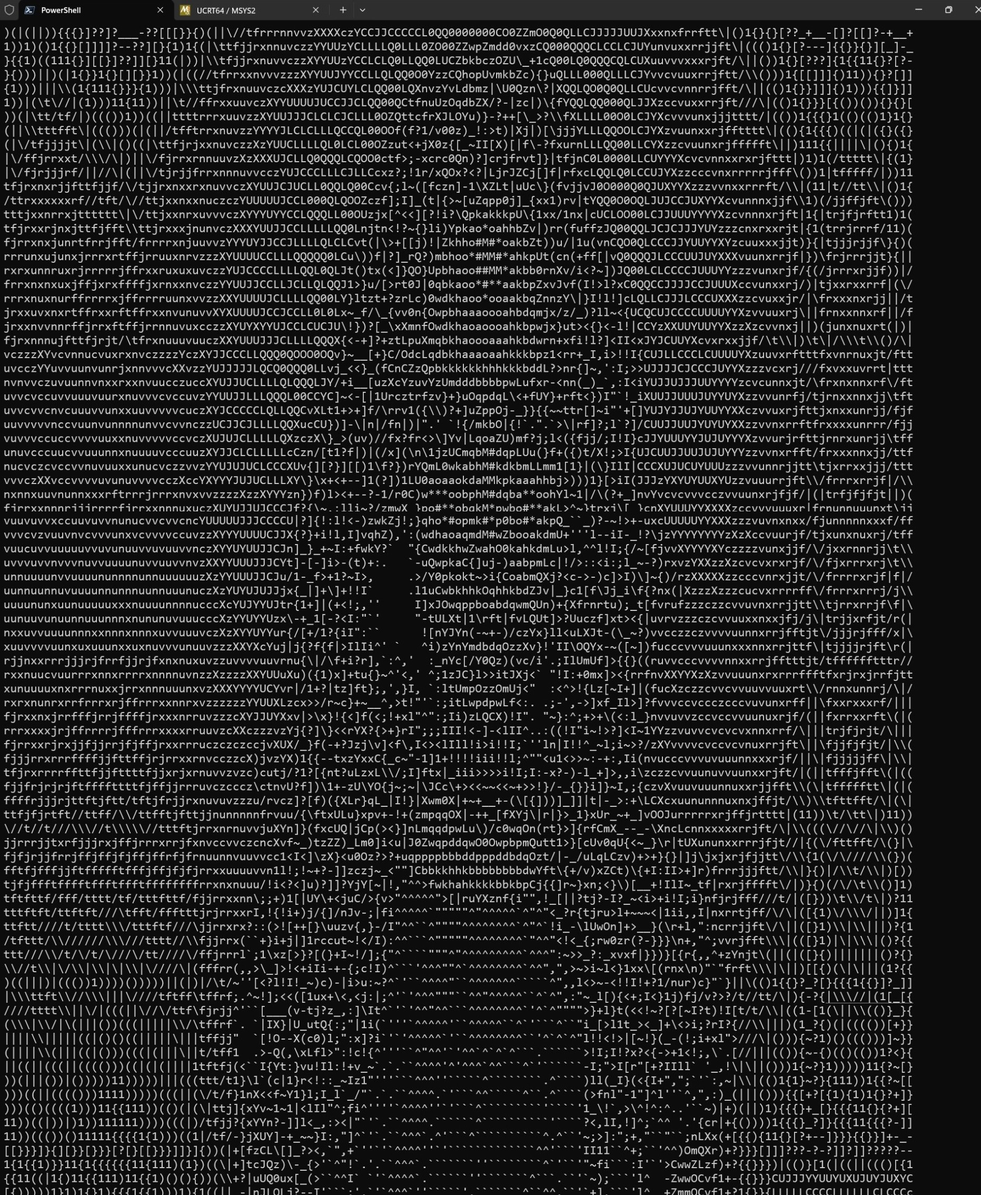
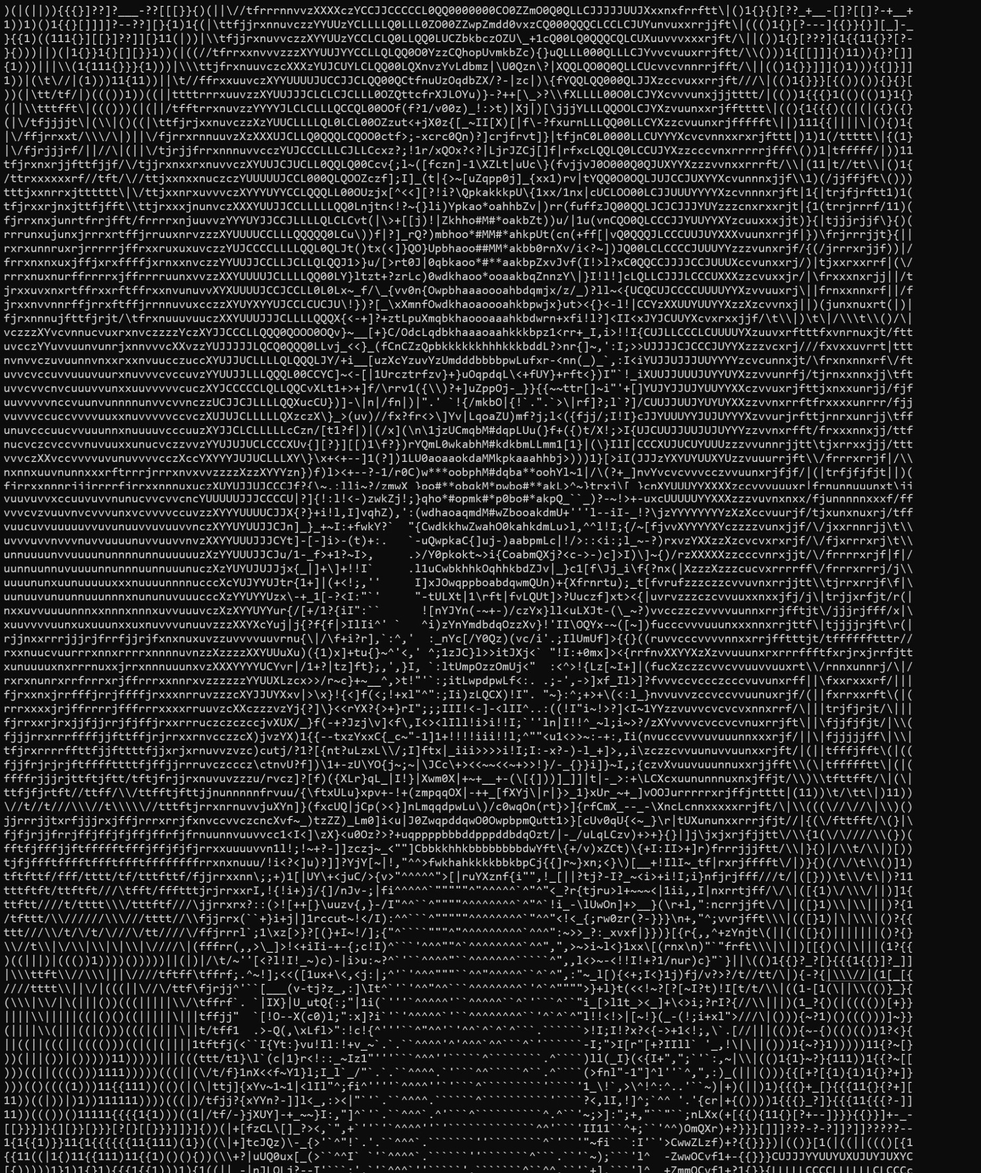
fixing up

diff --git a/include/tostring.h b/include/tostring.h
@@ -7,8 +7,8 @@
 ////////////////////////////////////
 //    PLACE FOR CUSTOMIZATIONS    //
 ////////////////////////////////////
-#define spalette                   palette                                                  // PICK ONE OF THE THREE AVALIABLE PALETTES
-#define map(_pixel)                minmax_mapper(_pixel, spalette, __crt_countof(spalette)) // CHOOSE A BASIC MAPPER OF YOUR LIKING
+#define spalette                   palette                                                    // PICK ONE OF THE THREE AVALIABLE PALETTES
+#define map(_pixel)                weighted_mapper(_pixel, spalette, __crt_countof(spalette)) // CHOOSE A BASIC MAPPER OF YOUR LIKING
 
 // CHOOSE A BLOCK MAPPER OF YOUR LIKING
 #define blockmap(blue, green, red) weighted_blockmapper(blue, green, red, spalette, __crt_countof(spalette))
